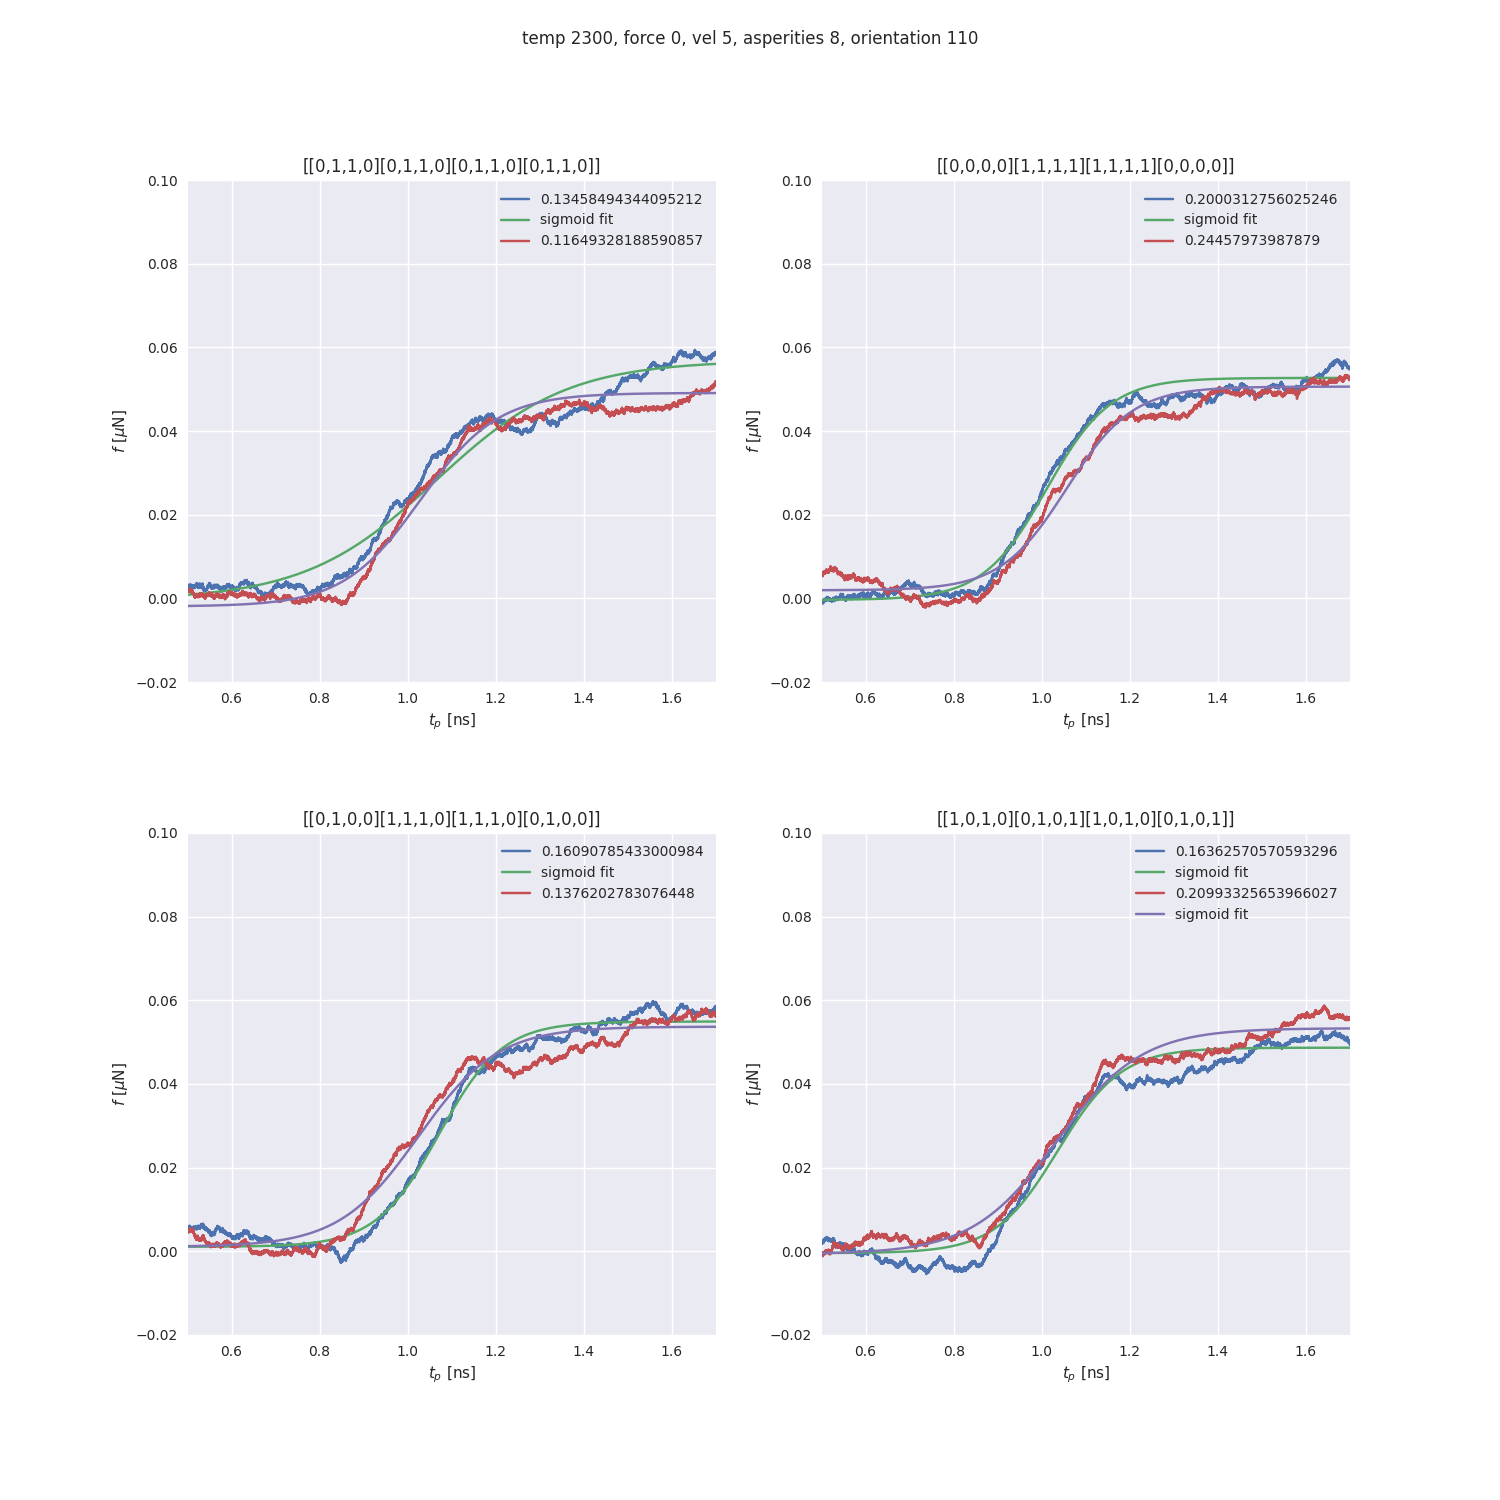
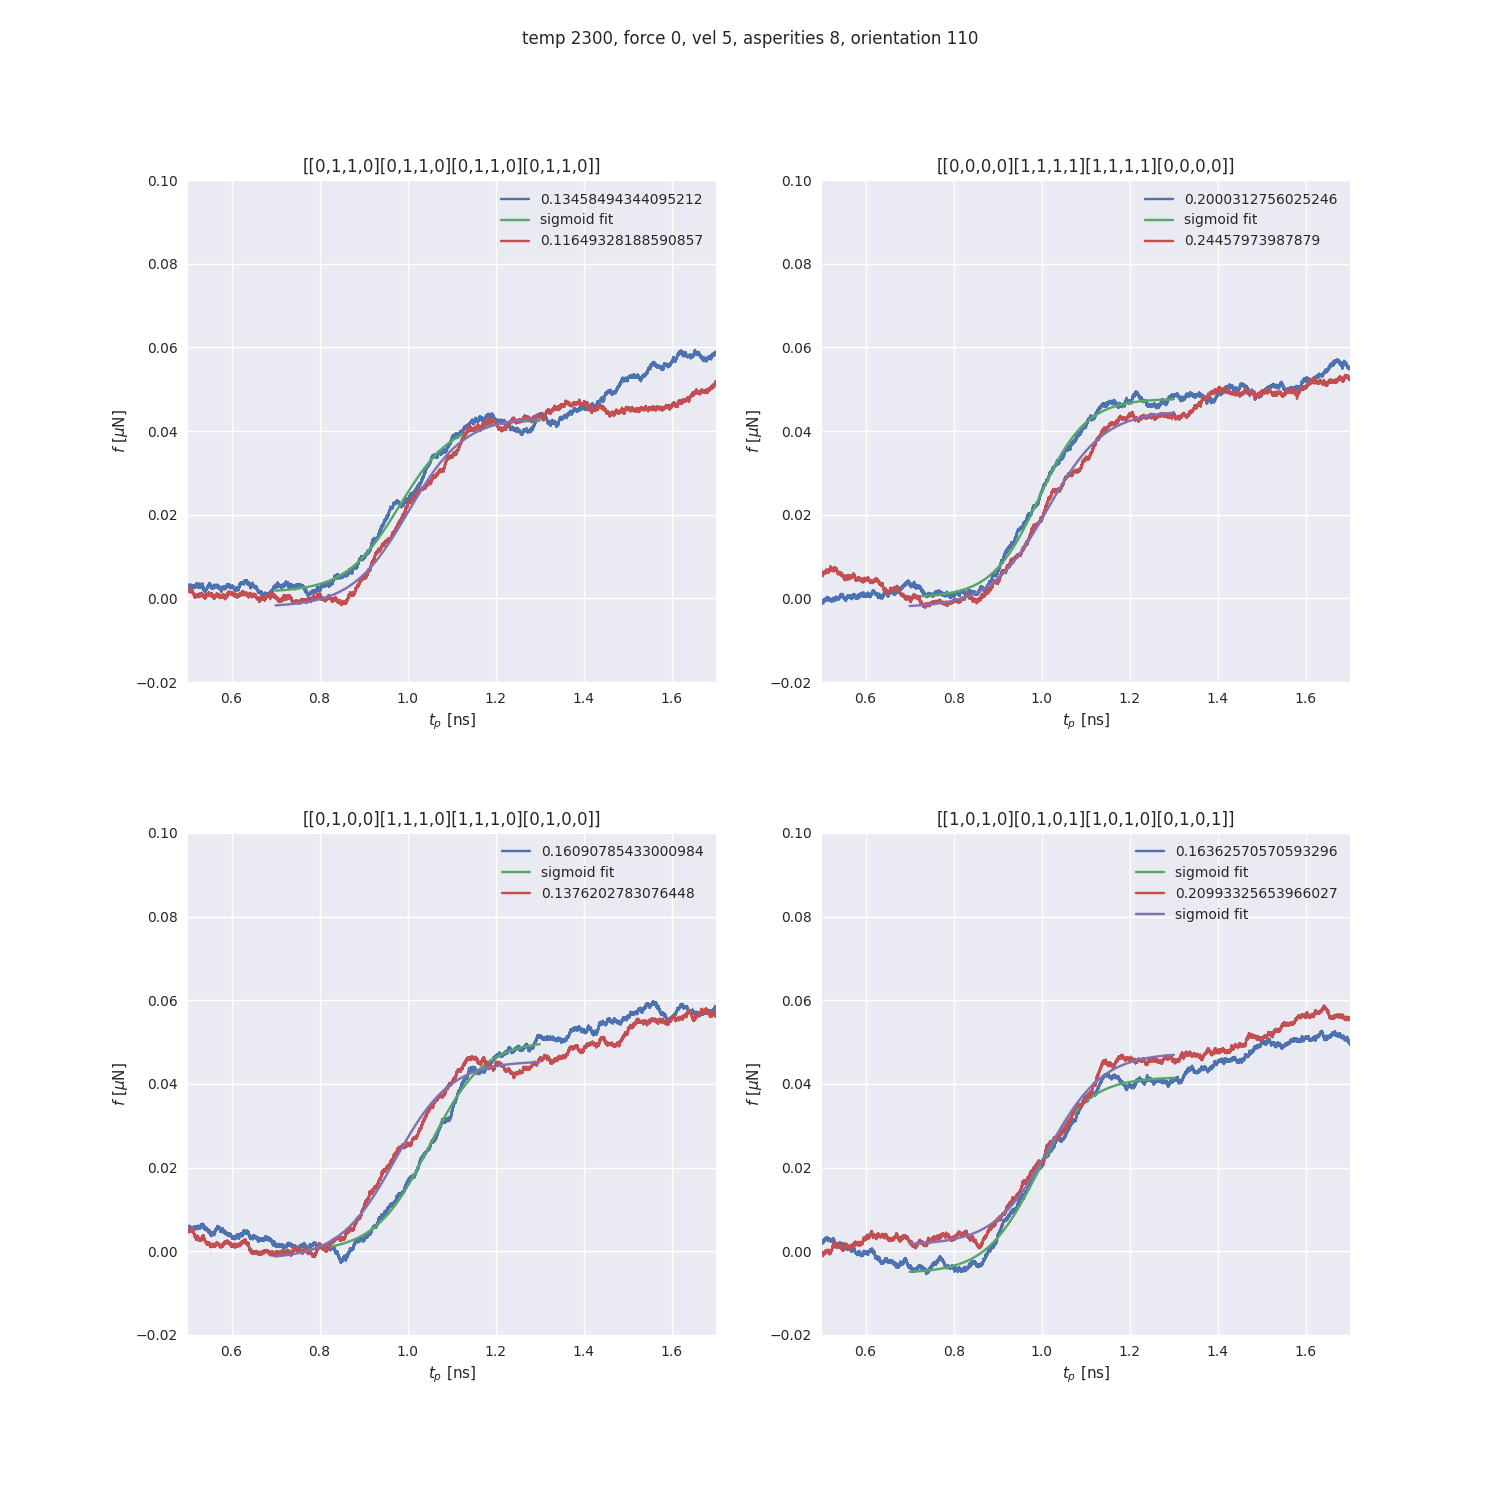
sigmoid fit now works on a given interval. still need to find the rise of the given curve

diff --git a/python/plot/plot_load_curves.py b/python/plot/plot_load_curves.py
@@ -511,11 +511,22 @@ def plot_production(temp, vel, force, uc, asperities, time, orientation, grid, e
             axs[i].plot(load_curve[:,0], load_curve[:,1], label = rise_all[j])
             axs[i].legend()
 
+            #fitting sigmoid to selected interval.
+            polfit_start_indx = (np.abs(load_curve[:,0] - 0.7)).argmin()
+            polfit_stop_indx = (np.abs(load_curve[:,0] - 1.3)).argmin()
+            #translation so it has same shape as load_curve
+            polfit_data = np.array((load_curve[polfit_start_indx:polfit_stop_indx,0],
+                                   load_curve[polfit_start_indx:polfit_stop_indx,1])).T
+
+
             #curve fit doesn't like nan. removing theese for now
-            non_nan_mask = ~np.isnan(load_curve[:,1])
-            time_nnan = load_curve[non_nan_mask,0]
-            load_curve_nnan = load_curve[non_nan_mask,1]
-            p0 = [max(time_nnan), np.median(time_nnan),1,min(load_curve_nnan)] # this is an mandatory initial guess
+            non_nan_mask = ~np.isnan(polfit_data[:,1])
+
+            #https://stackoverflow.com/questions/55725139/fit-sigmoid-function-s-shape-curve-to-data-using-python
+            time_nnan = polfit_data[non_nan_mask,0]
+            load_curve_nnan = polfit_data[non_nan_mask,1]
+            #this was [max(time_nnan), etc and worked.. website says ydata first
+            p0 = [max(load_curve_nnan), np.median(time_nnan),1,min(load_curve_nnan)] # this is an mandatory initial guess
             print(p0)
             try:
                 popt, pcov = curve_fit(sigmoid, time_nnan, load_curve_nnan,p0, method='dogbox')
